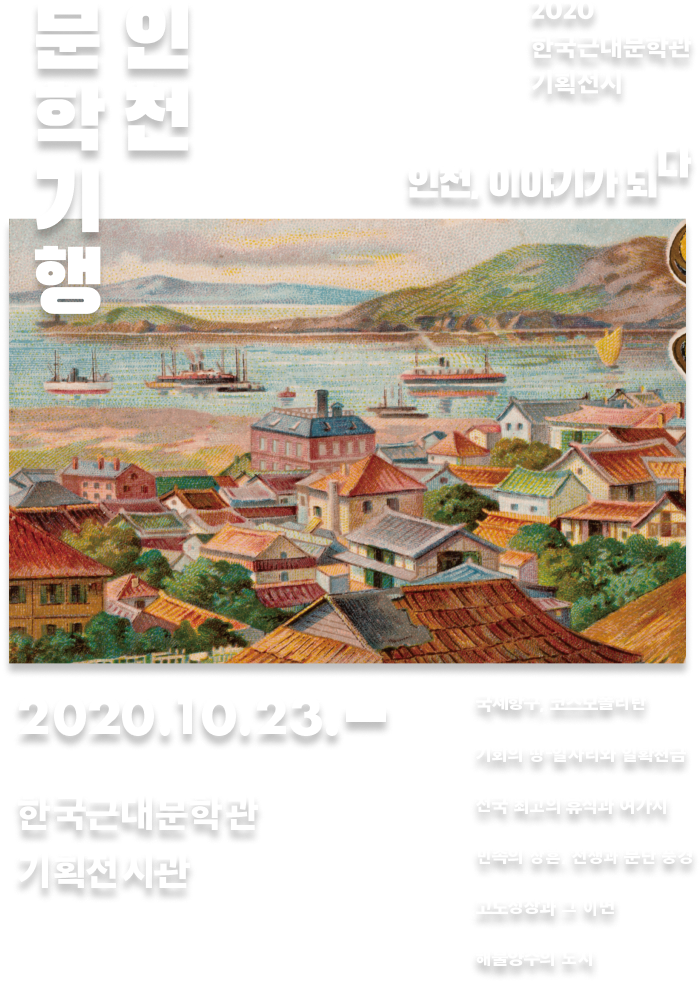
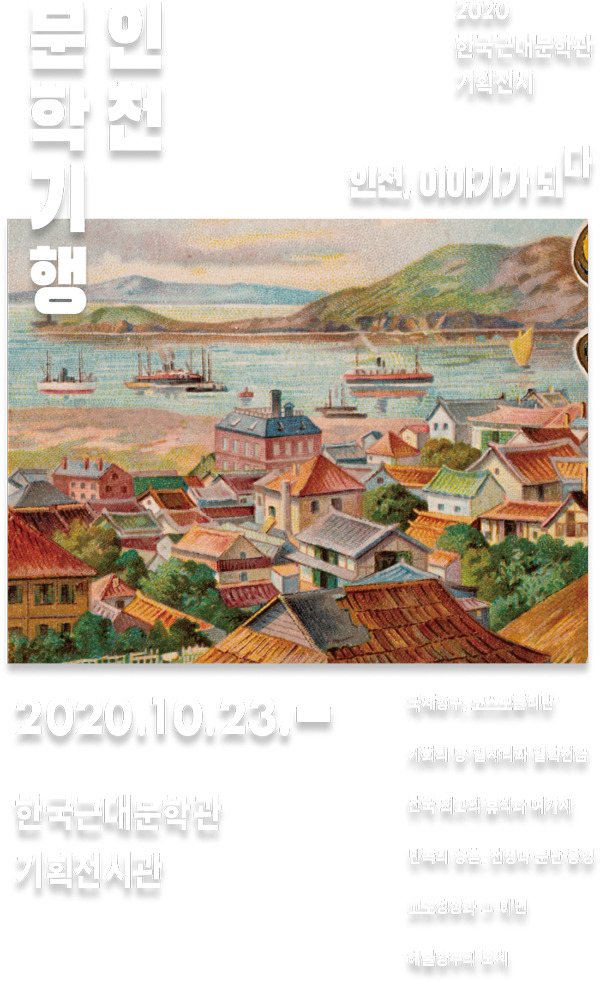
first

diff --git a/src/compoents/front_entry/EntryFirst.js b/src/compoents/front_entry/EntryFirst.js
@@ -22,16 +22,16 @@ margin-top:35px;
 justify-content:center;
 align-items:center;
 .bgImg{
-    // width:100%;
-    ${media.desktopL`
-    width: 33%;
-    `}
-    ${media.mobilePhone`
-    width:94%;
-    `}
-    ${media.tablet`
-    width: 55%;
-    `}
+    width:96%;
+    // ${media.desktopL`
+    // width: 33%;
+    // `}
+    // ${media.mobilePhone`
+    // width:94%;
+    // `}
+    // ${media.tablet`
+    // width: 55%;
+    // `}
     height:90%;
     position:absolute;
     
@@ -134,7 +134,7 @@ function EntryFirst({history}){
         <Wrapper>
             <BGImg >
                
-                    <img className='bgImg' src={require('../../assets/imgs/entry/entry1.png')}  />
+                    <img className='bgImg' src={require('../../assets/imgs/entry/entry.png')}  />
                
             </BGImg>
             <Content>
